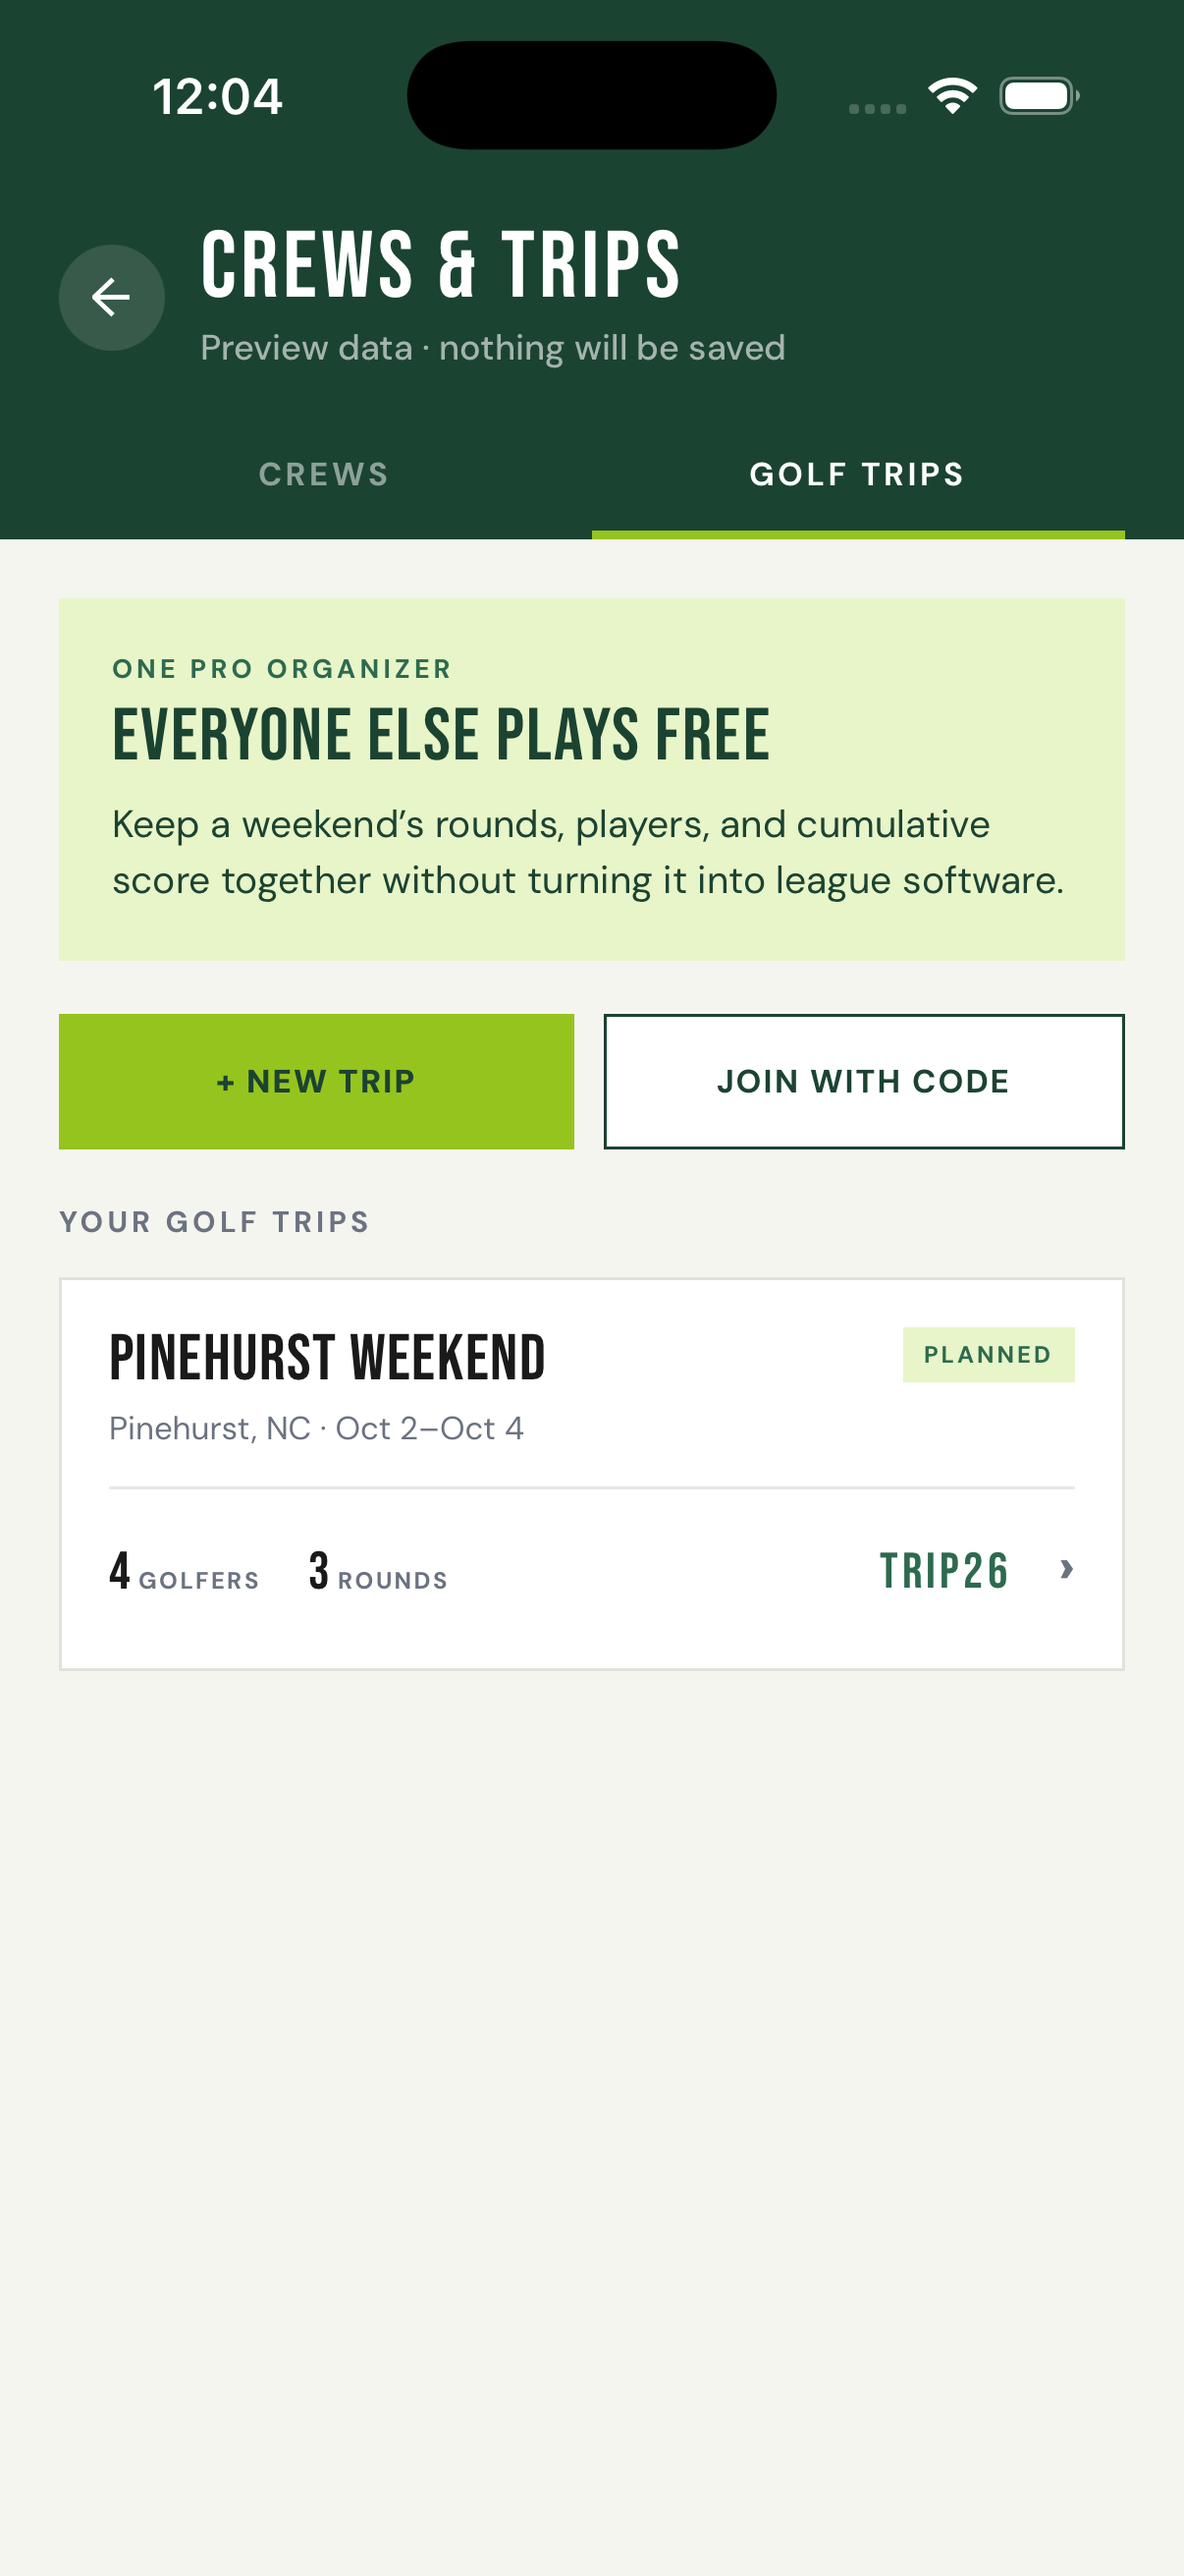
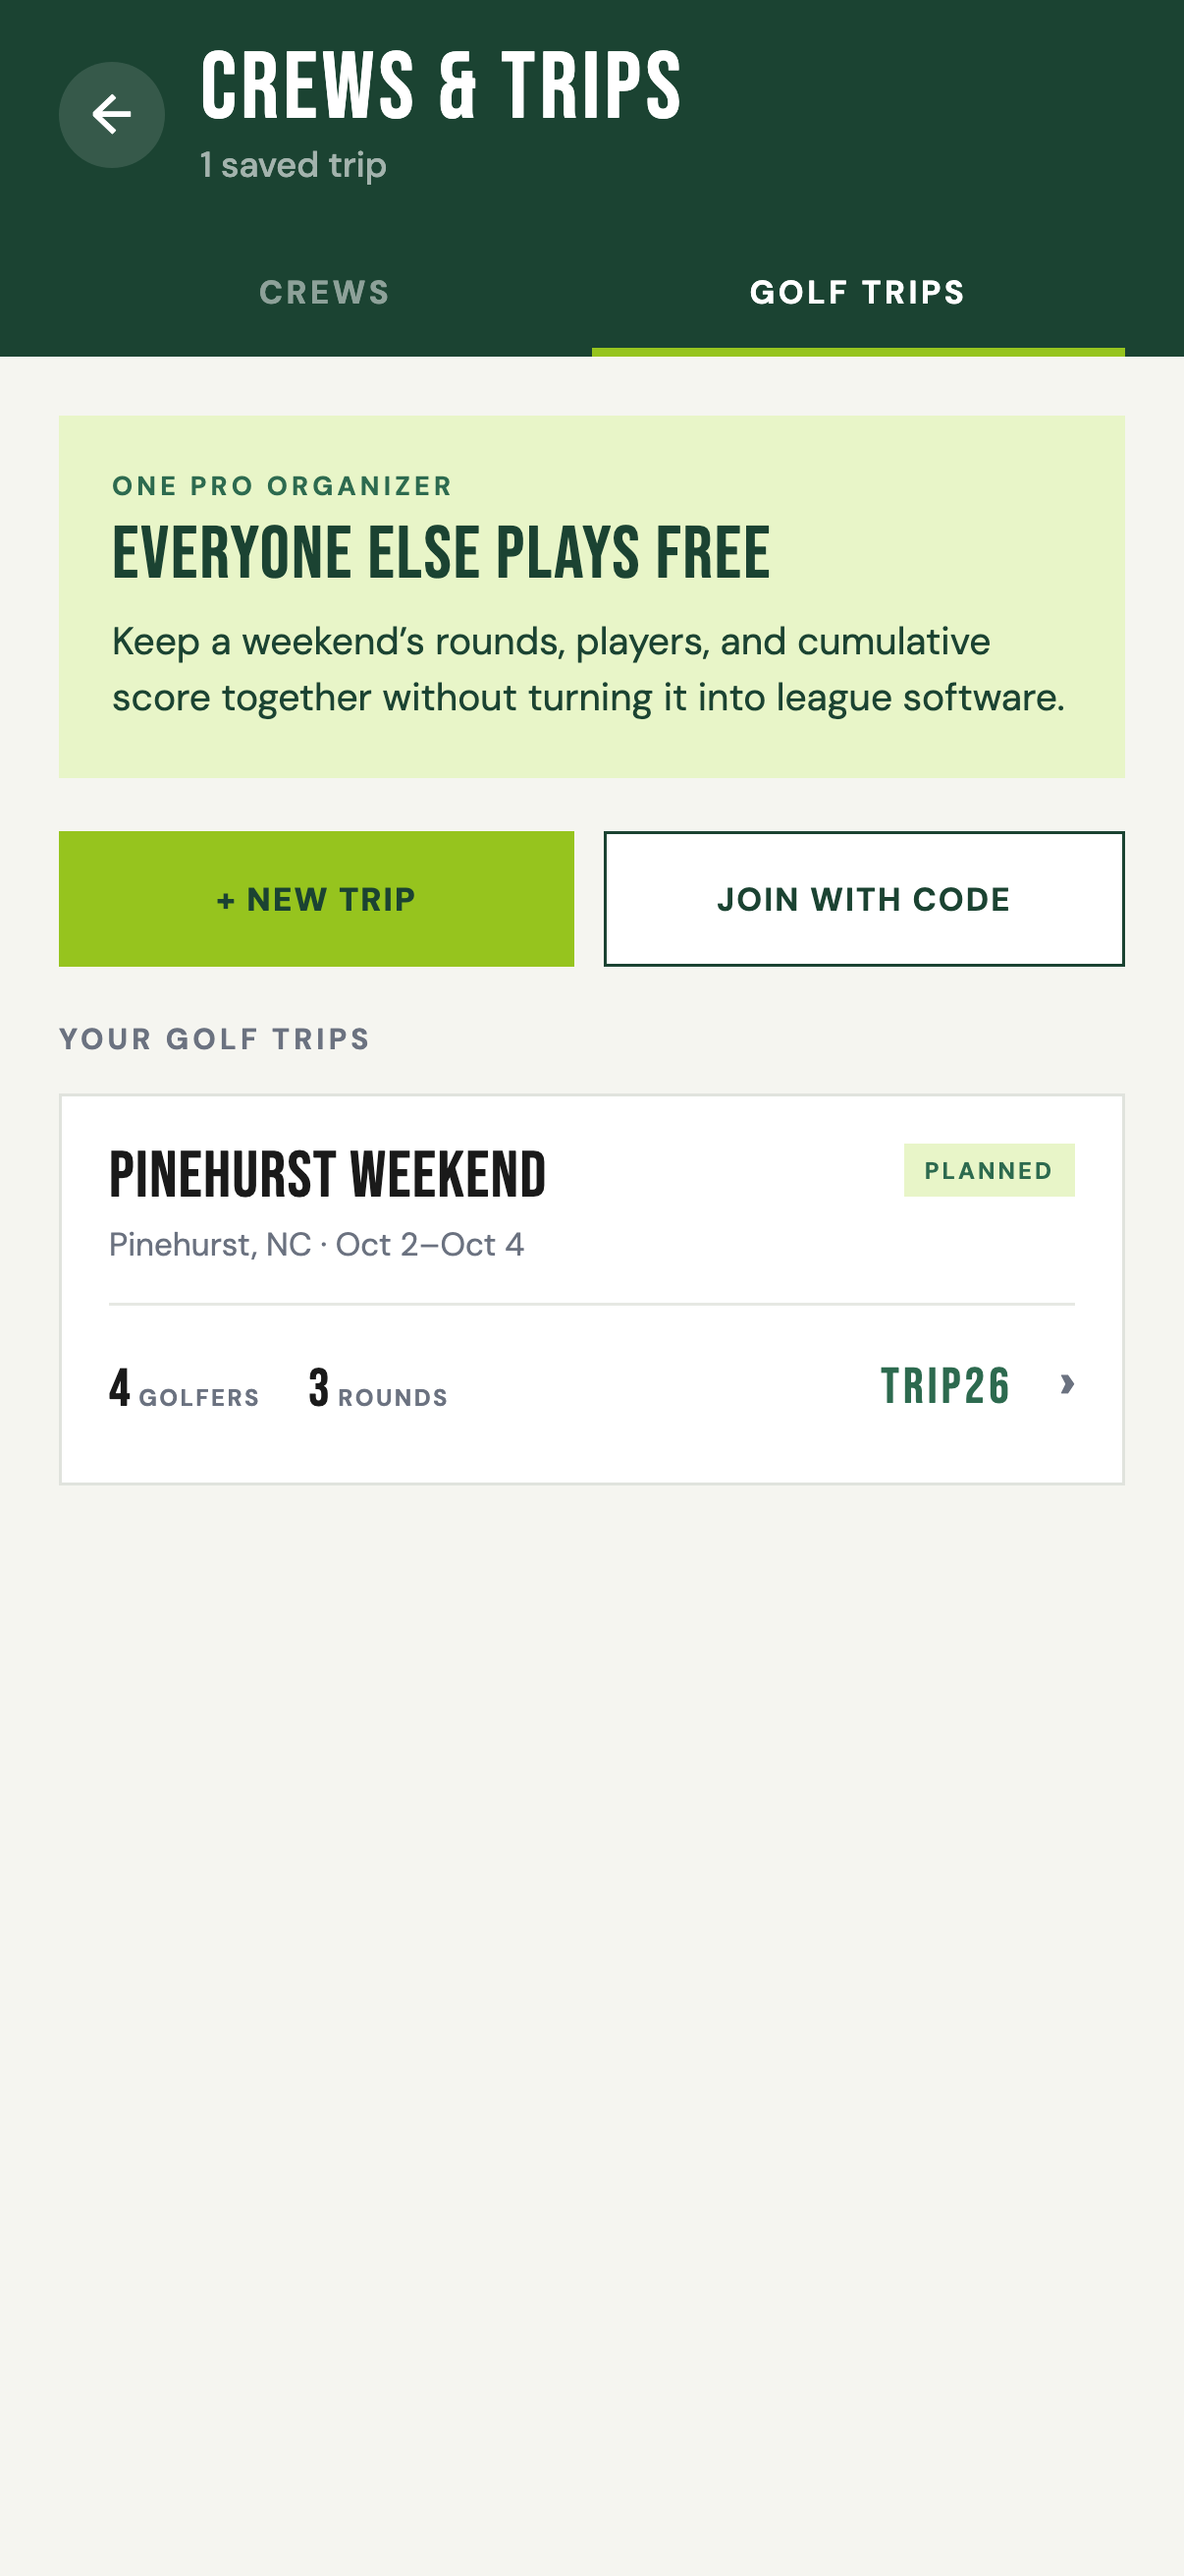
Refresh clean App Store feature captures

diff --git a/assets/app-store/1.0.4/source/index.html b/assets/app-store/1.0.4/source/index.html
@@ -32,7 +32,7 @@
     .screen { position:absolute; left:0; top:0; width:100%; height:auto; }
     .screenWrap.score .screen { top:-100px; }
     .screenWrap.pro .screen { width:auto; height:100%; left:30px; }
-    .screenWrap.recap .screen { top:-100px; }
+    .screenWrap.recap .screen { top:-260px; }
     .screenWrap.crew, .screenWrap.trip { top:760px; height:1570px; border-bottom-width:9px; border-radius:78px; }
     .screenWrap.crew .screen, .screenWrap.trip .screen { top:0; }
     .screenWrap.journal .screen { top:-100px; }

diff --git a/assets/app-store/1.0.4/README.md b/assets/app-store/1.0.4/README.md
@@ -2,11 +2,11 @@
 
 Status: **pre-release draft; do not upload yet.**
 
-These nine 1290 × 2796 JPEGs use an accepted Apple 6.9-inch iPhone screenshot size. They contain no alpha channel. Image 07 was refreshed from the PR #80 simulator stack at candidate `deebc63d7cf73f757f4add5dcab316d11c5084ad`; the current candidate `a9744d2d4a0cc060bb13316f03029440256f0f9f` only clarifies the asset-provenance record, so the UI is identical. Image 01 was captured from its `d417bc2` ancestor and is unchanged by the generated-asset-only commit. Image 09 was captured from its `d55bd17` ancestor and is likewise UI-identical at the current candidate. Images 03–06 and 08 use real 1.0.4 review components captured from candidate `a6553ee8cffce832e501289276551ec25c760910`; image 02 uses the user-invoked Watch UI at native candidate `6998ca8635bd852025a8ac81e32ff6d5ca4c812a`. The journal, season, crews, trips, and OCR data are fictional, write-free review fixtures.
+These nine 1290 × 2796 JPEGs use an accepted Apple 6.9-inch iPhone screenshot size. They contain no alpha channel. Images 04–07 were recaptured from PR #80 candidate `ec1c1514d70b553bae9296151eb6a1b586a97c0b` through development-only, write-free fixture routes at a 402 × 874 CSS viewport and 3× device scale. The `marketing=1` fixture parameter only hides internal QA notices from these public-facing compositions; it is disabled outside development and does not change release behavior. Image 01 was captured from its `d417bc2` ancestor and image 09 from its `d55bd17` ancestor; neither surface changed through the current candidate. Images 03 and 08 use real 1.0.4 review components captured from candidate `a6553ee8cffce832e501289276551ec25c760910`; image 02 uses the user-invoked Watch UI at native candidate `6998ca8635bd852025a8ac81e32ff6d5ca4c812a`. The journal, season, crews, trips, and OCR data are fictional, write-free review fixtures.
 
 The `watch/` directory contains three 416 × 496 RGB JPEGs captured directly from the Series 11 simulator at the same native candidate. This is an accepted Apple Watch screenshot size. The files show scoring, the user-opened More menu, and the full-size club list. They are a separate Watch listing set and are not part of the numbered iPhone sequence. Slide 02 reuses the same current scoring capture, so the iPhone and Watch listings cannot drift to different control layouts.
 
[2 lines of base64/hex data omitted]
 
 Each image is numbered against the nine-image set (`01 / 9` through `09 / 9`). `contact-sheet.jpg` was regenerated from these exact final draft files.
 
